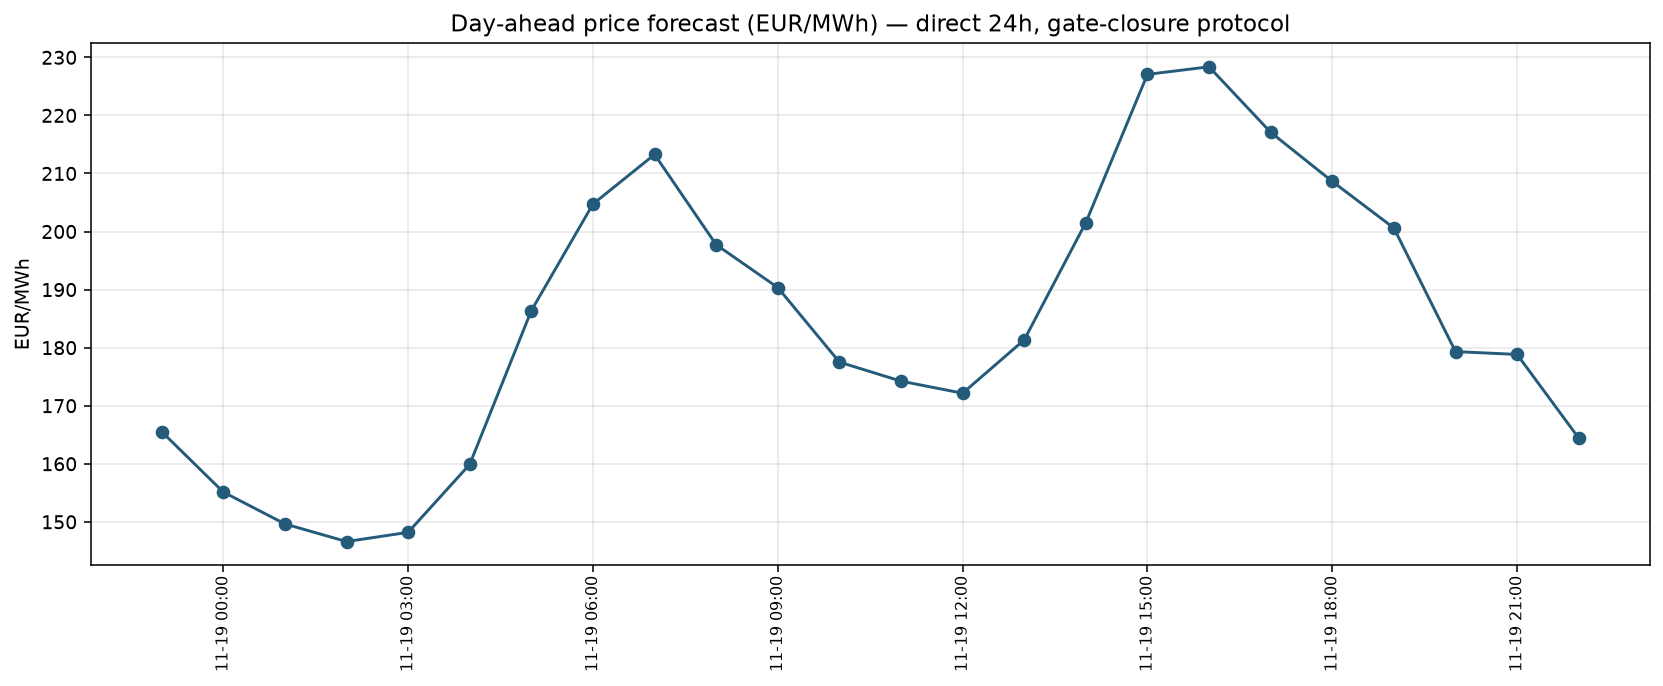
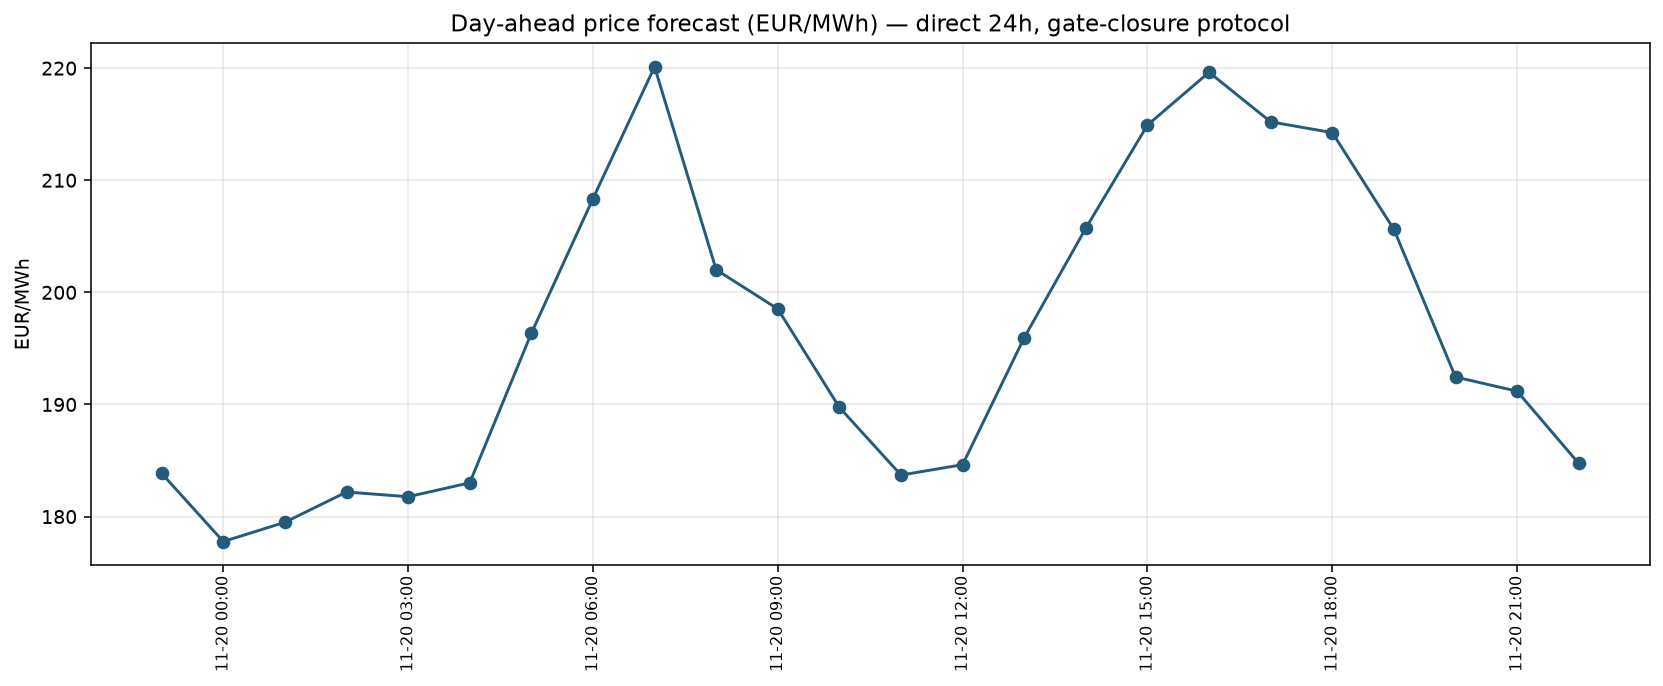
chore: daily forecast and evaluation update

diff --git a/README.md b/README.md
@@ -179,10 +179,10 @@ Code: MIT. Market data remain under their original terms. SMARD-related series: 
 
 ## Live daily forecast
 
-**Generated (UTC):** 2026-11-18 09:58  
-**Based on data up to (UTC):** 2026-11-18 22:00  
-**Forecast horizon (UTC):** 2026-11-18 23:00 to 2026-11-19 22:00  
-**Protocol:** gate-closure features (lags >= 24 h, complete-day context) + external_shift = 24 + direct 24h + shrunk hourly bias correction
+**Generated (UTC):** 2026-11-19 11:24  
+**Based on data up to (UTC):** 2026-11-19 22:00  
+**Forecast horizon (UTC):** 2026-11-19 23:00 to 2026-11-20 22:00  
+**Protocol:** gate-closure features (lags >= 24 h, complete-day context) + external_shift = 24 + ENTSO-E load (no shift) + direct 24h + shrunk hourly bias correction
 
 ### Forecast chart
 
@@ -192,30 +192,30 @@ Code: MIT. Market data remain under their original terms. SMARD-related series: 
 
 | Hour (UTC) | Forecast (EUR/MWh) | Bias |
 |------------|--------------------|------|
-| 2026-11-18 23:00 | 165.52 | 0.00 |
-| 2026-11-19 00:00 | 155.13 | 0.00 |
-| 2026-11-19 01:00 | 149.64 | 0.00 |
-| 2026-11-19 02:00 | 146.60 | 0.00 |
-| 2026-11-19 03:00 | 148.19 | 0.00 |
-| 2026-11-19 04:00 | 159.90 | 0.00 |
-| 2026-11-19 05:00 | 186.38 | 0.00 |
-| 2026-11-19 06:00 | 204.73 | 0.00 |
-| 2026-11-19 07:00 | 213.27 | 0.00 |
-| 2026-11-19 08:00 | 197.73 | 0.00 |
-| 2026-11-19 09:00 | 190.35 | 0.00 |
-| 2026-11-19 10:00 | 177.51 | 0.00 |
-| 2026-11-19 11:00 | 174.23 | 0.00 |
-| 2026-11-19 12:00 | 172.15 | 0.00 |
-| 2026-11-19 13:00 | 181.34 | 0.00 |
-| 2026-11-19 14:00 | 201.55 | 0.00 |
-| 2026-11-19 15:00 | 227.07 | 0.00 |
-| 2026-11-19 16:00 | 228.37 | 0.00 |
-| 2026-11-19 17:00 | 217.09 | 0.00 |
-| 2026-11-19 18:00 | 208.63 | 0.00 |
-| 2026-11-19 19:00 | 200.60 | 0.00 |
-| 2026-11-19 20:00 | 179.32 | 0.00 |
-| 2026-11-19 21:00 | 178.83 | 0.00 |
-| 2026-11-19 22:00 | 164.42 | 0.00 |
+| 2026-11-19 23:00 | 183.85 | 0.00 |
+| 2026-11-20 00:00 | 177.77 | 0.00 |
+| 2026-11-20 01:00 | 179.49 | 0.00 |
+| 2026-11-20 02:00 | 182.19 | 0.00 |
+| 2026-11-20 03:00 | 181.77 | 0.00 |
+| 2026-11-20 04:00 | 183.01 | 0.00 |
+| 2026-11-20 05:00 | 196.35 | 0.00 |
+| 2026-11-20 06:00 | 208.36 | 0.00 |
+| 2026-11-20 07:00 | 220.12 | 0.00 |
+| 2026-11-20 08:00 | 202.02 | 0.00 |
+| 2026-11-20 09:00 | 198.52 | 0.00 |
+| 2026-11-20 10:00 | 189.74 | 0.00 |
+| 2026-11-20 11:00 | 183.70 | 0.00 |
+| 2026-11-20 12:00 | 184.63 | 0.00 |
+| 2026-11-20 13:00 | 195.96 | 0.00 |
+| 2026-11-20 14:00 | 205.73 | 0.00 |
+| 2026-11-20 15:00 | 214.92 | 0.00 |
+| 2026-11-20 16:00 | 219.63 | 0.00 |
+| 2026-11-20 17:00 | 215.21 | 0.00 |
+| 2026-11-20 18:00 | 214.25 | 0.00 |
+| 2026-11-20 19:00 | 205.62 | 0.00 |
+| 2026-11-20 20:00 | 192.45 | 0.00 |
+| 2026-11-20 21:00 | 191.18 | 0.00 |
+| 2026-11-20 22:00 | 184.74 | 0.00 |
 
 ### Previous forecasts vs realized prices
 
@@ -224,10 +224,11 @@ Code: MIT. Market data remain under their original terms. SMARD-related series: 
 | `forecast_2026-11-16.csv` | 24 | 20.65 | 66.10 | 151.15 | 0.31 | 0.14 | False | no: not pre-gate |
 | `forecast_2026-11-17.csv` | 24 | 55.82 | 46.58 | 139.90 | 1.20 | 0.40 | True | yes |
 | `forecast_2026-11-18.csv` | 24 | 51.79 | 72.19 | 170.40 | 0.72 | 0.30 | True | yes |
+| `forecast_2026-11-19.csv` | 24 | 40.31 | 78.58 | 36.01 | 0.51 | 1.12 | True | yes |
 
-**Valid scored days: 2 | mean MAE model 53.80 | SN24 59.38 | SN168 155.15 | best-of-baselines 59.38**
+**Valid scored days: 3 | mean MAE model 49.31 | SN24 65.78 | SN168 115.44 | best-of-baselines 51.59**
 
-**Days model beats SN24: 1/2 | beats the better of SN24/SN168: 1/2**
+**Days model beats SN24: 2/3 | beats the better of SN24/SN168: 1/3**
 
 _Only rows marked 'Counted = yes' enter the summary. Files from the old code (Pre-gate nan), post-gate runs and duplicate delivery days are shown for transparency but not counted. No statistical claim until >= 60 valid days._
 
